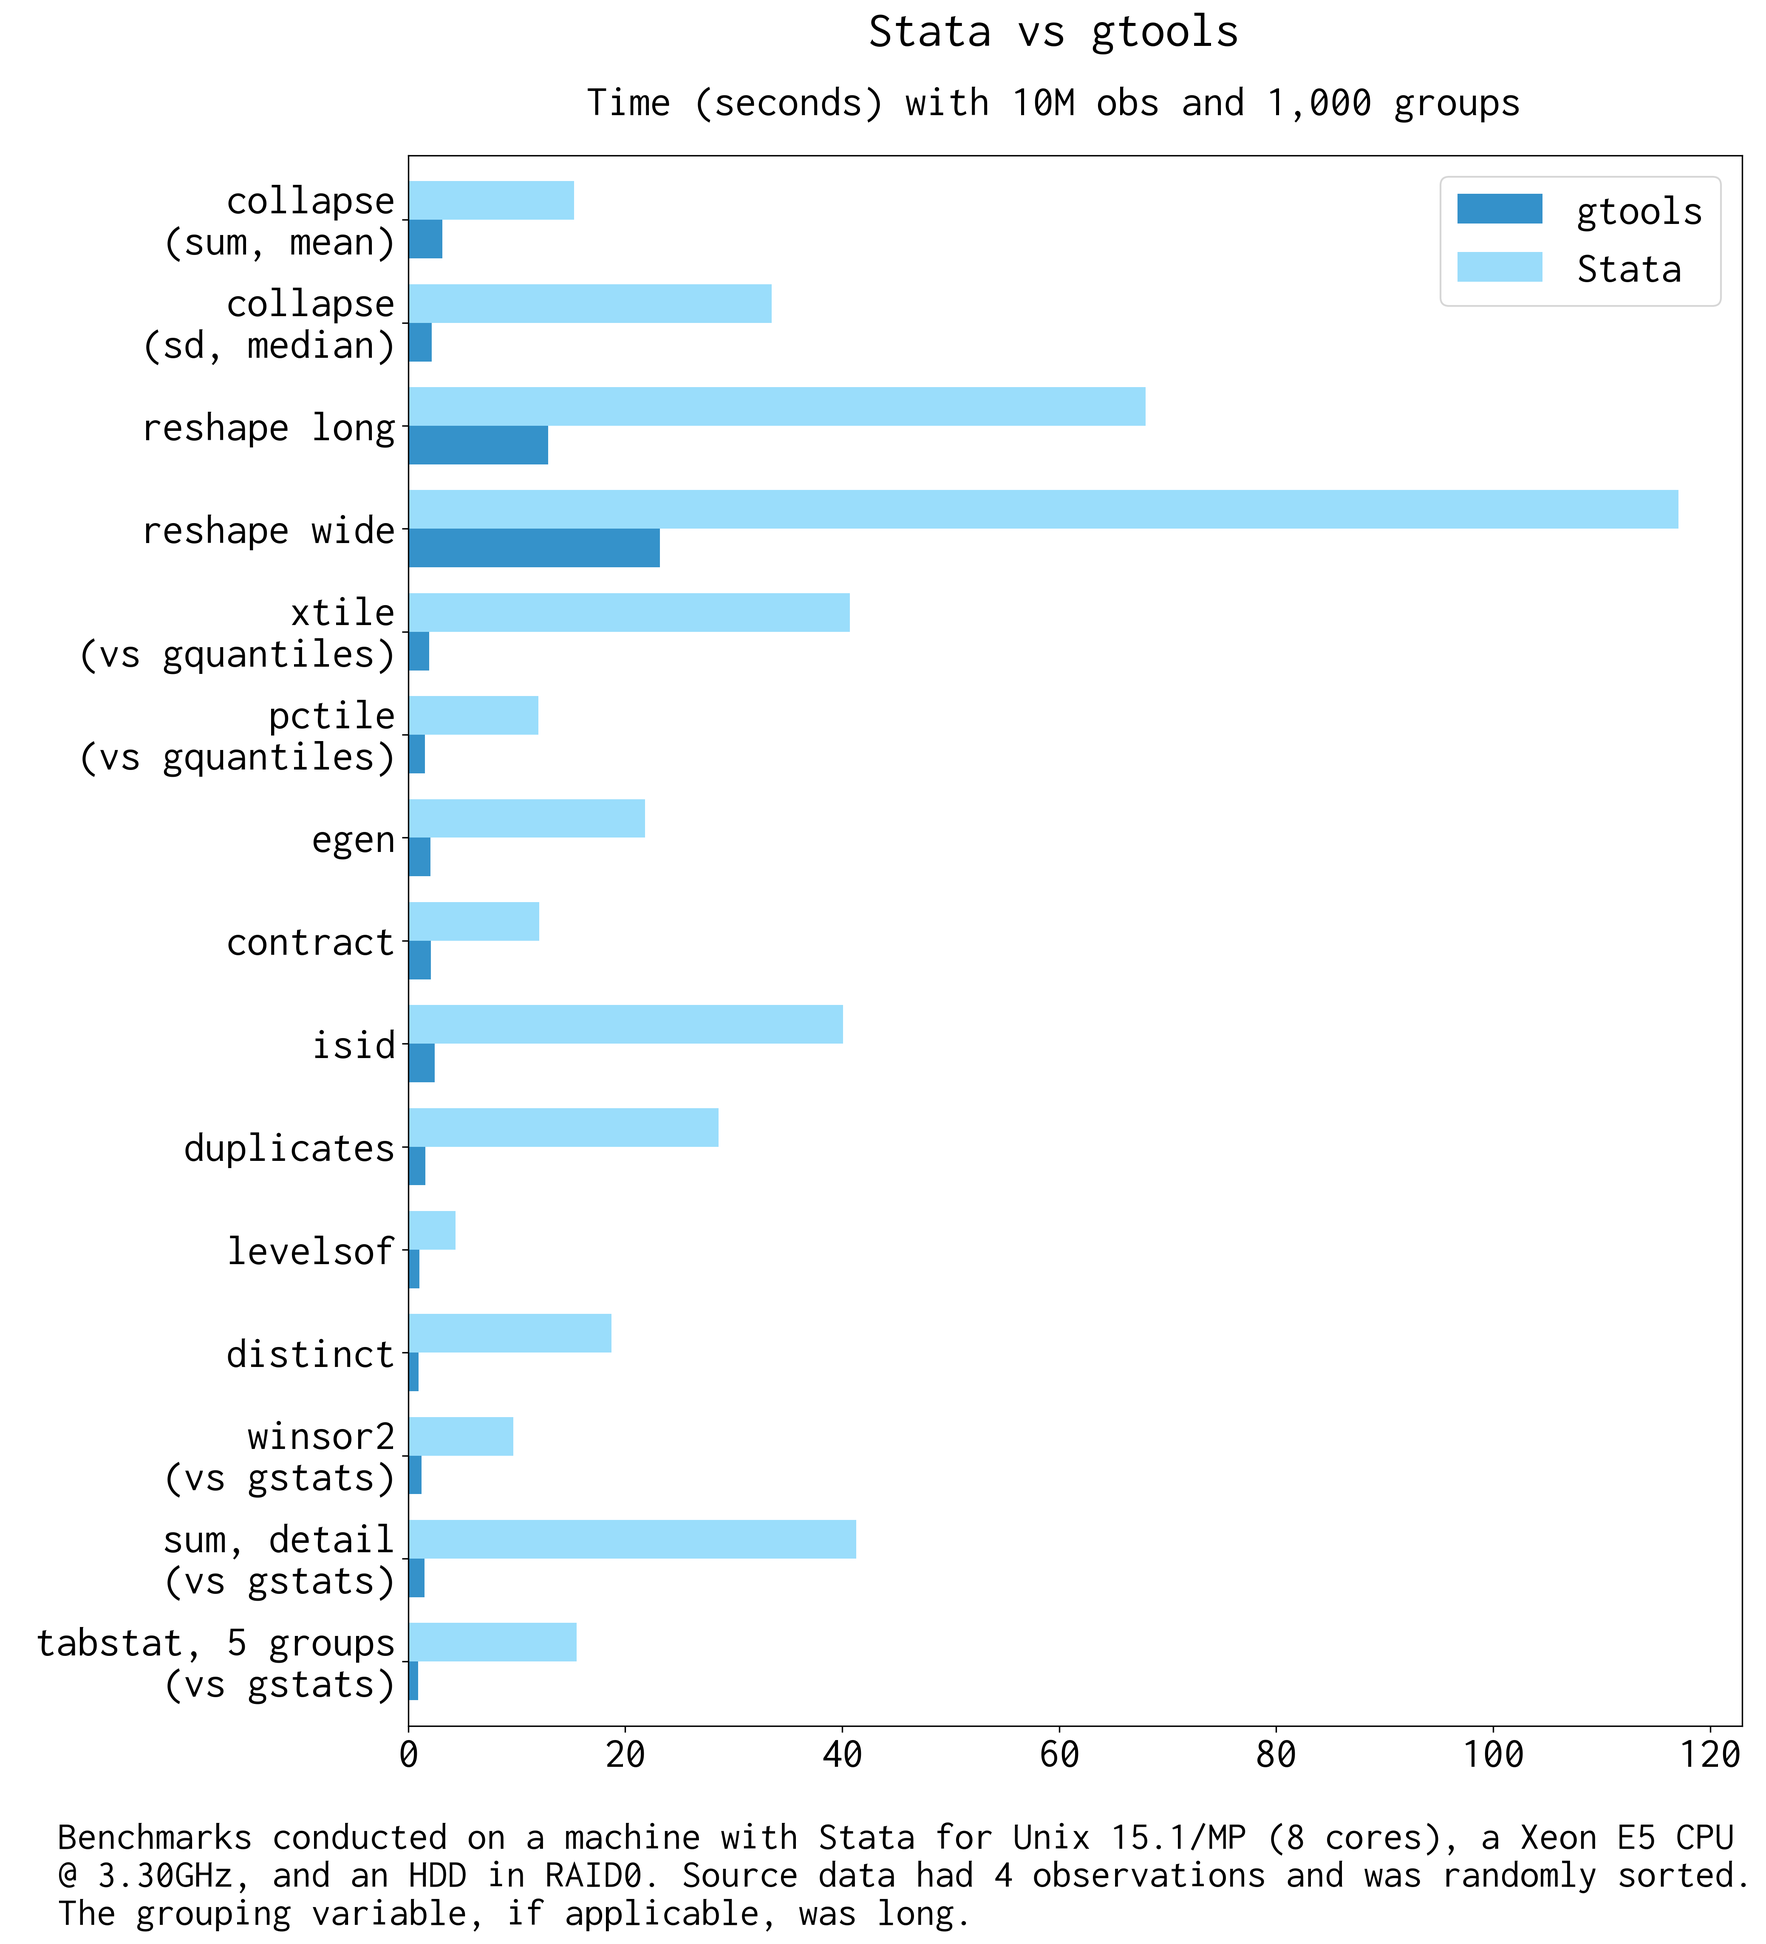
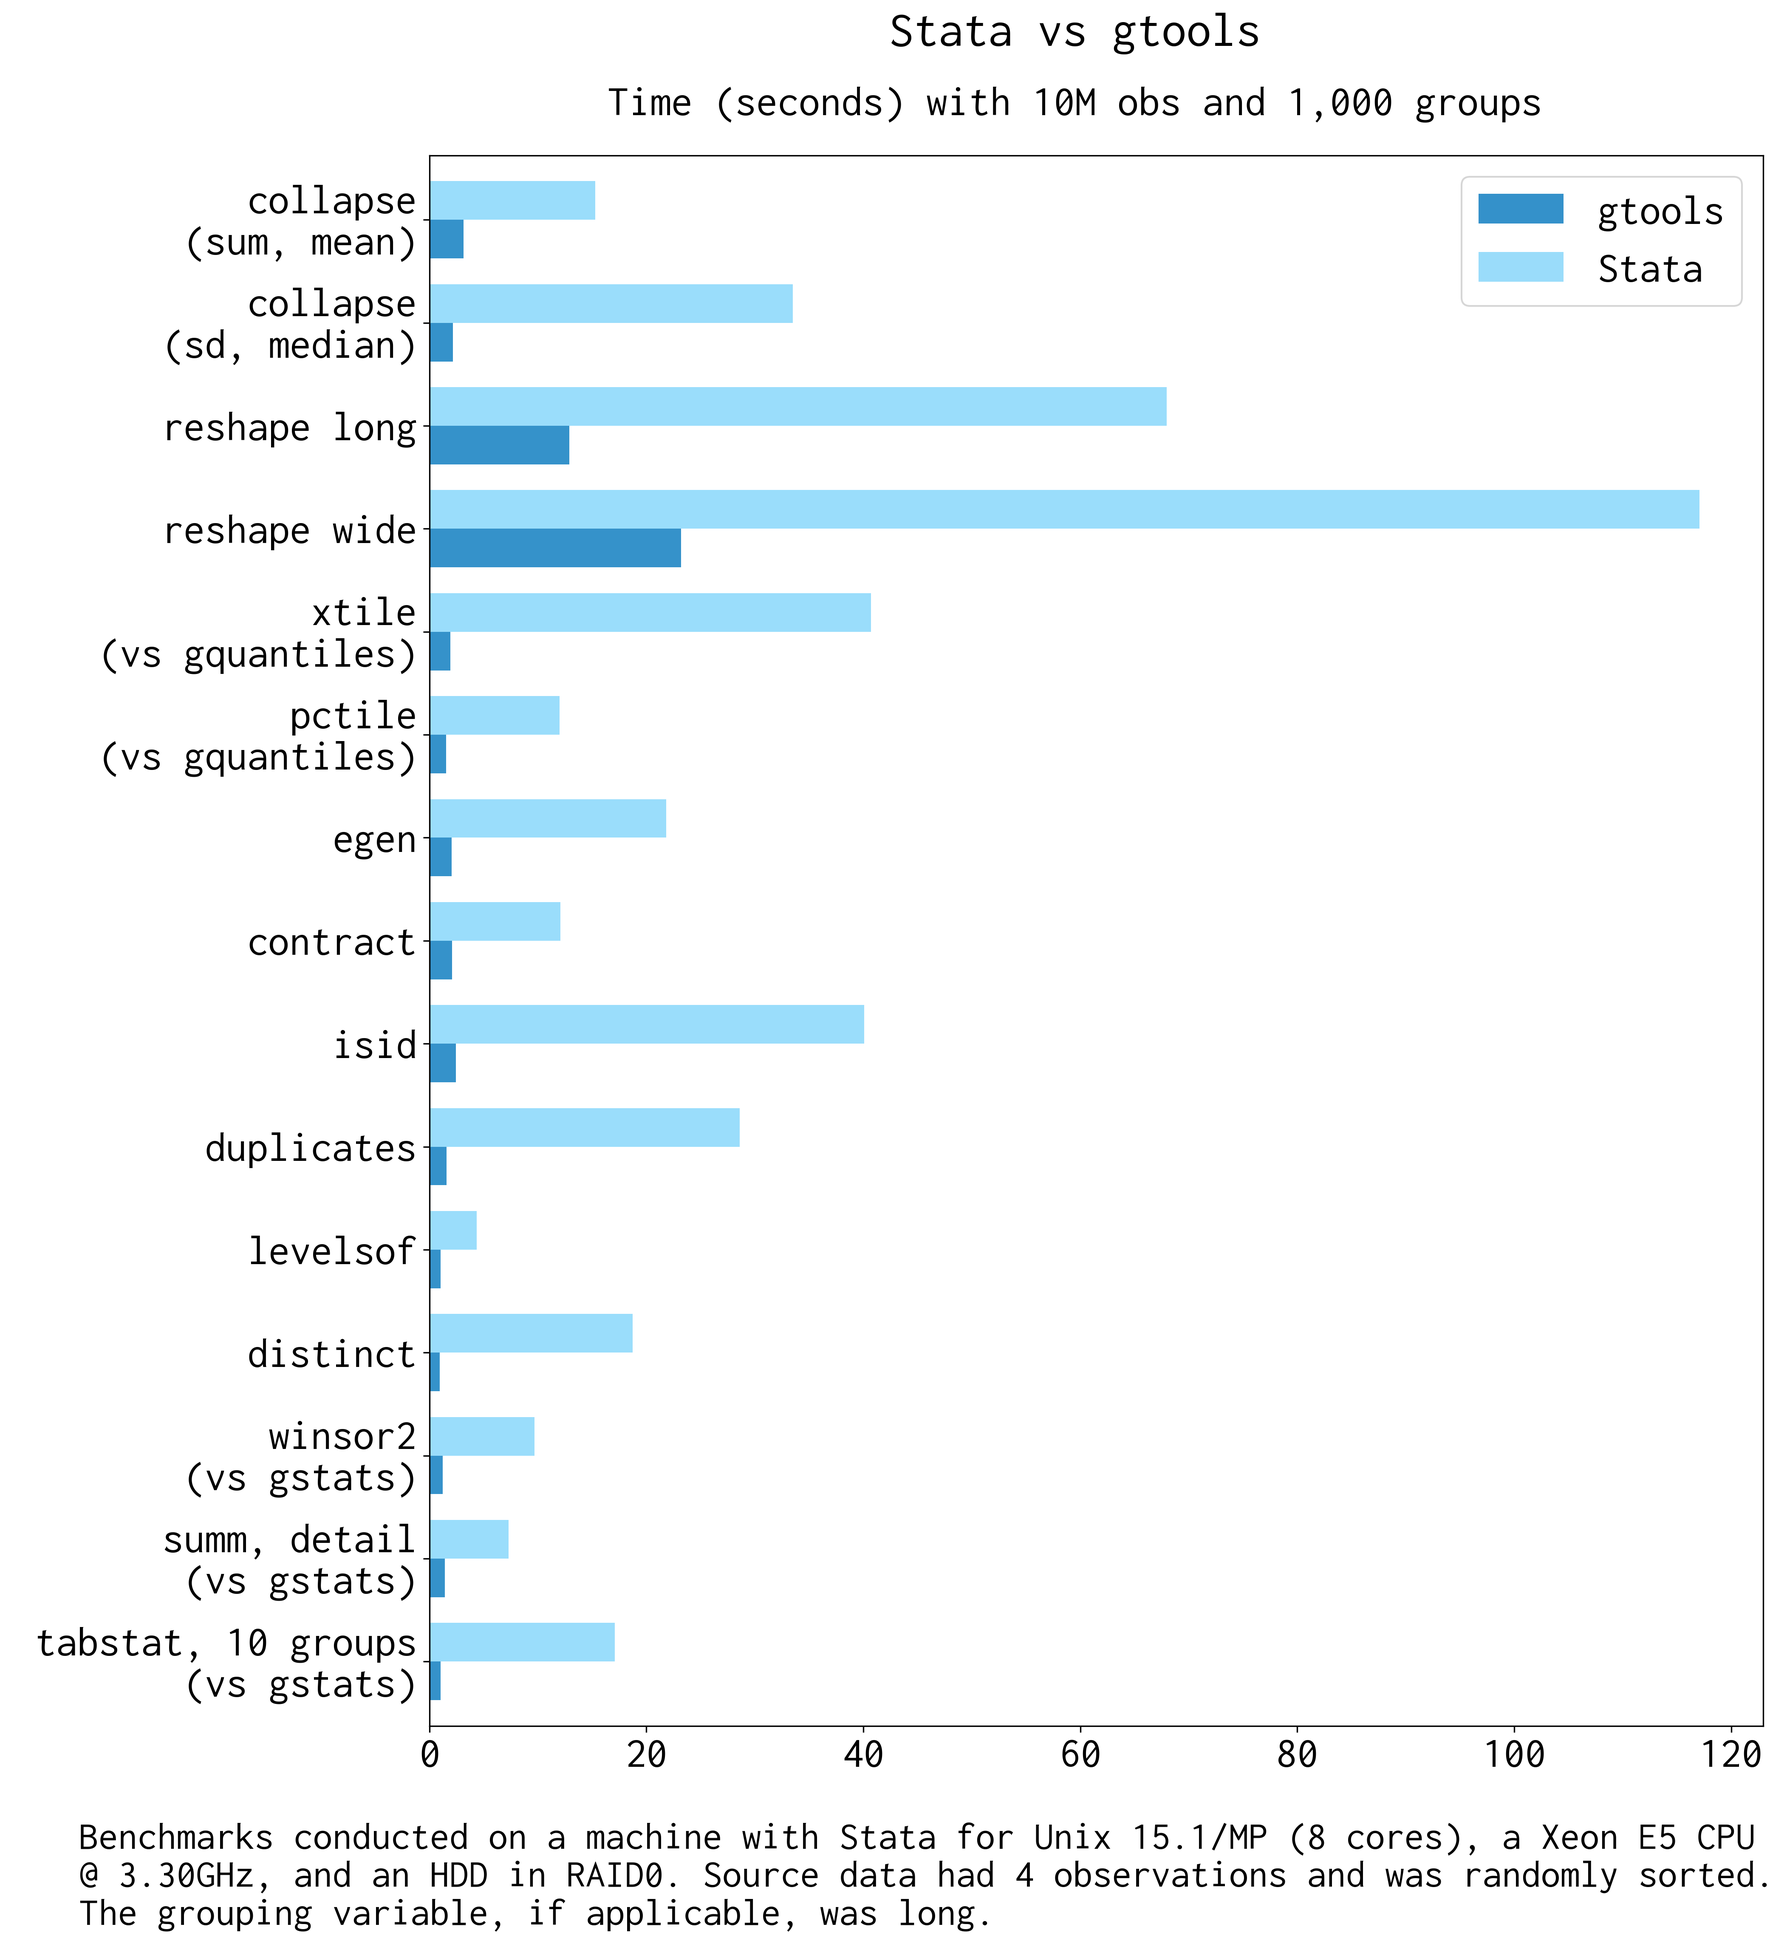
Updated gstats docs; benchmarks.

diff --git a/build.py b/build.py
@@ -134,6 +134,7 @@ gtools_ssc = [
     "greshape.sthlp",
     "gstats.sthlp",
     "gstats_winsor.sthlp",
+    "gstats_tab.sthlp",
     "gstats_sum.sthlp",
     "gstats_summarize.sthlp",
     "gduplicates.sthlp",
@@ -329,6 +330,11 @@ copy2(
     path.join("docs", "stata", "gstats_sum.sthlp")
 )
 
+copy2(
+    path.join("docs", "stata", "gstats_summarize.sthlp"),
+    path.join("docs", "stata", "gstats_tab.sthlp")
+)
+
 copy2(path.join("docs", "stata", "gcollapse.sthlp"),        gdir)
 copy2(path.join("docs", "stata", "gcontract.sthlp"),        gdir)
 copy2(path.join("docs", "stata", "gegen.sthlp"),            gdir)
@@ -343,6 +349,7 @@ copy2(path.join("docs", "stata", "gstats.sthlp"),           gdir)
 copy2(path.join("docs", "stata", "gstats_winsor.sthlp"),    gdir)
 copy2(path.join("docs", "stata", "gstats_summarize.sthlp"), gdir)
 copy2(path.join("docs", "stata", "gstats_sum.sthlp"),       gdir)
+copy2(path.join("docs", "stata", "gstats_tab.sthlp"),       gdir)
 copy2(path.join("docs", "stata", "gduplicates.sthlp"),      gdir)
 copy2(path.join("docs", "stata", "gquantiles.sthlp"),       gdir)
 copy2(path.join("docs", "stata", "fasterxtile.sthlp"),      gdir)

diff --git a/docs/benchmarks/quick.py b/docs/benchmarks/quick.py
@@ -46,7 +46,7 @@ df = pd.DataFrame(
         ['levelsof',                        2.80,   0.50],
         ['distinct',                        30.24,  0.57],
         ['winsor2\n(vs gstats)',            19.93,  0.86],
-        ['sum, detail\n(vs gstats)',        41.3,   1.51],
+        ['summ, detail\n(vs gstats)',       41.3,   1.51],
         ['tabstat, 10 groups\n(vs gstats)', 18.5,   1.24],
 
     ],
@@ -68,8 +68,8 @@ df = pd.DataFrame(
         ['levelsof',                        4.37,  1.01],
         ['distinct',                       18.74,  0.93],
         ['winsor2\n(vs gstats)',            9.67,  1.22],
-        ['sum, detail\n(vs gstats)',        41.3,  1.51],
-        ['tabstat, 10 groups\n(vs gstats)', 18.5,  1.24],
+        ['summ, detail\n(vs gstats)',        7.3,  1.41],
+        ['tabstat, 10 groups\n(vs gstats)', 17.1,  1.04],
     ],
     columns = [' ', 'Stata', 'gtools']
 )

diff --git a/docs/usage/gstats_summarize.md b/docs/usage/gstats_summarize.md
@@ -1,8 +1,8 @@
 gstats sum/tab
 ==============
 
-Efficiently compute summary statistics in the style of `summarize, detail`
-and `tabstat`.
+Efficiently compute summary statistics by group in the style of
+`tabstat` and `summarize, detail`.
 
 !!! tip "Important"
     Run `gtools, upgrade` to update `gtools` to the latest stable version.
@@ -67,14 +67,6 @@ The following are available via `gstats tab`
 Options
 -------
 
-### Summarize Options
-
-- `nodetail`           Do not display the full set of statistics.
-- `meanonly`           Calculate only the count, sum, mean, min, max.
-- `by(varname)`        Group by variable; all stats are computed but output is in the style of tabstat.
-- `separator(#)`       Draw separator line after every # variables; default is `separator(5)`.
-- `tabstat`            Compute and display statistics in the style of tabstat.
-
 ### Tabstat Options
 
 - `by(varname)`            Group statistics by variable.
@@ -83,6 +75,14 @@ Options
 - `prettystats`            Pretty statistic header names
 - `labelwidth(int)`        Max by variable label/value width. Default `16`.
 - `format[(%fmt)]`         Use format to display summary stats; default `%9.0g`
+
+### Summarize Options
+
+- `nodetail`           Do not display the full set of statistics.
+- `meanonly`           Calculate only the count, sum, mean, min, max.
+- `by(varname)`        Group by variable; all stats are computed but output is in the style of tabstat.
+- `separator(#)`       Draw separator line after every # variables; default is `separator(5)`.
+- `tabstat`            Compute and display statistics in the style of tabstat.
 
 ### Common Options
 
@@ -128,29 +128,31 @@ Options
 Remarks
 -------
 
-`gstats sum` computes the statistics that are reported by `sum, detail`
-with a reasonable runtime. While the latter does report deveral complex
-statistics, including various quantiles and the largest and smallest
-values, it is very inefficiently implemented. `gstats sum` is often 20
-to 40 times faster.
+`gstats tab` and `gstats sum` are mainly designed to report
+statistics by group. It does not modify the data in memory,
+so it is a nice alternative to `gcollapse` when there are few
+groups and you want to compute summary stats more quickly.
 
-Note that while the default behavior of `summarize` can be recovered
-via `gstats, meanonly` and `gstats, nodetail`, Stata is not specially
-inefficient when computing simple statistics, and in some cases it might
-be faster. The main use of these options is for use with `by()` and
-option `tab`.
+`gstats sum` by default computes the staistics that are reported by
+`sum, detail` and without `by()` it is anywhere from 5 to 40
+times faster. The lower end of the speed gains are for Stata/MP, but
+`sum, detail` is very slow in versions of Stata that are not multi-threaded.
+The behavior of plain `summarize` and `summarize, meanonly`
+can be recovered via options `nodetail` and `meanonly`, but Stata
+is not specially slow in this case. Hence they are mainly included for
+use with `by()`, where `gstats sum` is again faster.
 
-`gstats tab` is a fast alternative to `tabstat`. Without groups and with
-simple statistics, `tabstat` is not, again, particularly inefficient.
-However, even with few groups (e.g. 5) `tabstat` will be at least 10
-times slower than `gstats tab`, and as the number of groups increases
-the runtime of `tabstat` appears to increase non-linearly, whereas
-`gstats tab` retains a reasonable runtime.
+`gstats tab` should be faster than `tabstat` even without
+groups, but the speed gains are largest with even a modest number of
+levels in `by()`. Furthermore, an arbitrary number of grouping
+variables are allowed. Note that with a very large numer of groups,
+`tabstat`'s runtime seems to scale non-linearly, while `gstats tab`
+will execute in a reasonable time.
 
 `gstata tab` does not store results in `r()`. Rather, the option `matasave`
 is provided to store the full set of summary statistics and the by variable
-levels in a mata class object called `GstatsOutput`. The following
-helper functions are provided:
+levels in a mata class object called `GstatsOutput`. Run `mata GstatsOutput.desc()`
+after `gstats tab, matasave` for details. The following helper functions are provided:
 
 ```
     string scalar getf(j, l, maxlbl)

diff --git a/docs/index.md b/docs/index.md
@@ -49,8 +49,8 @@ __*Gtools commands with a Stata equivalent*__
 | gquantiles   | xtile       |  10 to 30 / 13 to 25 (-) |                         | `by()`, various (see [usage](https://gtools.readthedocs.io/en/latest/usage/gquantiles)) |
 |              | pctile      |  13 to 38 / 3 to 5 (-)   |                         | Ibid.                                   |
 |              | \_pctile    |  25 to 40 / 3 to 5       |                         | Ibid.                                   |
-| gstats sum   | sum, detail |  10 to 40 / 5 to 20      | See [remarks](#remarks) | various (see [usage](https://gtools.readthedocs.io/en/latest/usage/gstats_summarize)) |
 | gstats tab   | tabstat     |  10 to 60 / 5 to 40 (-)  | See [remarks](#remarks) | various (see [usage](https://gtools.readthedocs.io/en/latest/usage/gstats_summarize)) |
+| gstats sum   | sum, detail |  10 to 40 / 5 to 10      | See [remarks](#remarks) | various (see [usage](https://gtools.readthedocs.io/en/latest/usage/gstats_summarize)) |
 
 <small>(+) The upper end of the speed improvements are for quantiles
 (e.g. median, iqr, p90) and few groups. Weights have not been
@@ -95,7 +95,7 @@ details and examples, see each command's help page:
 - [gcollapse](usage/gcollapse#examples)
 - [greshape](usage/greshape#examples)
 - [gquantiles](usage/gquantiles#examples)
-- [gstats summarize](usage/gstats_summarize#examples)
+- [gstats sum/tab](usage/gstats_summarize#examples)
 - [gtoplevelsof](usage/gtoplevelsof#examples)
 - [gegen](usage/gegen#examples)
 - [glevelsof](usage/glevelsof#examples)
@@ -418,7 +418,7 @@ Differences from `egen`
 
 - `group` label options are not supported
 - weights are supported for internally implemented functions.
-- `nunique` is supported.
+- New functions: `nunique`, `nmissing`, `cv`, `variance`, `select#`, `select-#`, `range`
 - `gegen` upgrades the type of the target variable if it is not specified by
   the user. This means that if the sources are `double` then the output will
   be double. All sums are double. `group` creates a `long` or a `double`. And
@@ -429,6 +429,17 @@ Differences from `egen`
 - While `gegen` is much faster for `tag`, `group`, and summary stats, most
   egen function are not implemented internally, meaning for arbitrary `gegen`
   calls this is a wrapper for hashsort and egen.
+
+Differences from `tabstat`
+
+- Saving the output is done via `mata` instead of `r()`. No matrices
+  are saved in `r()` and option `save` is not allowed. However, option
+  `matasave` saves the output and `by()` info in `GstatsOutput`. See
+  `mata GstatsOutput.desc()` after `gstats tab, matasave` for details.
+- `GstatsOutput` provides helpers for extracting rows, columns, and levels.
+- Multiple groups are allowed.
+- Options `casewise`, `longstub` are not supported.
+- Option `nototal` is on by default; `total` is planned for a future release.
 
 Differences from `summarize, detail`
 
@@ -448,17 +459,6 @@ Differences from `summarize, detail`
   the option `by()`
 - `display options` are not supported.
 - Factor and time series variables are not allowed.
-
-Differences from `tabstat`
-
-- Saving the output is done via `mata` instead of `r()`. No matrices
-  are saved in `r()` and option `save` is not allowed. However, option
-  `matasave` saves the output and `by()` info in `GstatsOutput`. See
-  `mata GstatsOutput.desc()` after `gstats tab, matasave` for details.
-- `GstatsOutput` provides helpers for extracting rows, columns, and levels.
-- Multiple groups are allowed.
-- Options `casewise`, `longstub` are not supported.
-- Option `nototal` is on by default; `total` is planned for a future release.
 
 Differences from `levelsof`
 

diff --git a/README.md b/README.md
@@ -59,8 +59,8 @@ __*Gtools commands with a Stata equivalent*__
 | gquantiles   | xtile       |  10 to 30 / 13 to 25 (-) |                         | `by()`, various (see [usage](https://gtools.readthedocs.io/en/latest/usage/gquantiles)) |
 |              | pctile      |  13 to 38 / 3 to 5 (-)   |                         | Ibid.                                   |
 |              | \_pctile    |  25 to 40 / 3 to 5       |                         | Ibid.                                   |
-| gstats sum   | sum, detail |  10 to 40 / 5 to 20      | See [remarks](#remarks) | various (see [usage](https://gtools.readthedocs.io/en/latest/usage/gstats_summarize)) |
 | gstats tab   | tabstat     |  10 to 60 / 5 to 40 (-)  | See [remarks](#remarks) | various (see [usage](https://gtools.readthedocs.io/en/latest/usage/gstats_summarize)) |
+| gstats sum   | sum, detail |  10 to 40 / 5 to 10      | See [remarks](#remarks) | various (see [usage](https://gtools.readthedocs.io/en/latest/usage/gstats_summarize)) |
 
 <small>(+) The upper end of the speed improvements are for quantiles
 (e.g. median, iqr, p90) and few groups. Weights have not been
@@ -105,7 +105,7 @@ details and examples, see each command's help page:
 - [gcollapse](https://gtools.readthedocs.io/en/latest/usage/gcollapse/index.html#examples)
 - [greshape](https://gtools.readthedocs.io/en/latest/usage/greshape/index.html#examples)
 - [gquantiles](https://gtools.readthedocs.io/en/latest/usage/gquantiles/index.html#examples)
-- [gstats summarize](https://gtools.readthedocs.io/en/latest/usage/gstats_summarize/index.html#examples)
+- [gstats sum/tab](https://gtools.readthedocs.io/en/latest/usage/gstats_summarize/index.html#examples)
 - [glevelsof](https://gtools.readthedocs.io/en/latest/usage/glevelsof/index.html#examples)
 - [gtoplevelsof](https://gtools.readthedocs.io/en/latest/usage/gtoplevelsof/index.html#examples)
 - [gegen](https://gtools.readthedocs.io/en/latest/usage/gegen/index.html#examples)
@@ -449,6 +449,17 @@ Differences from `egen`
   egen function are not implemented internally, meaning for arbitrary `gegen`
   calls this is a wrapper for hashsort and egen.
 
+Differences from `tabstat`
+
+- Saving the output is done via `mata` instead of `r()`. No matrices
+  are saved in `r()` and option `save` is not allowed. However, option
+  `matasave` saves the output and `by()` info in `GstatsOutput`. See
+  `mata GstatsOutput.desc()` after `gstats tab, matasave` for details.
+- `GstatsOutput` provides helpers for extracting rows, columns, and levels.
+- Multiple groups are allowed.
+- Options `casewise`, `longstub` are not supported.
+- Option `nototal` is on by default; `total` is planned for a future release.
+
 Differences from `summarize, detail`
 
 - The behavior of `summarize` and `summarize, meanonly` can be
@@ -467,17 +478,6 @@ Differences from `summarize, detail`
   the option `by()`
 - `display options` are not supported.
 - Factor and time series variables are not allowed.
-
-Differences from `tabstat`
-
-- Saving the output is done via `mata` instead of `r()`. No matrices
-  are saved in `r()` and option `save` is not allowed. However, option
-  `matasave` saves the output and `by()` info in `GstatsOutput`. See
-  `mata GstatsOutput.desc()` after `gstats tab, matasave` for details.
-- `GstatsOutput` provides helpers for extracting rows, columns, and levels.
-- Multiple groups are allowed.
-- Options `casewise`, `longstub` are not supported.
-- Option `nototal` is on by default; `total` is planned for a future release.
 
 Differences from `levelsof`
 
